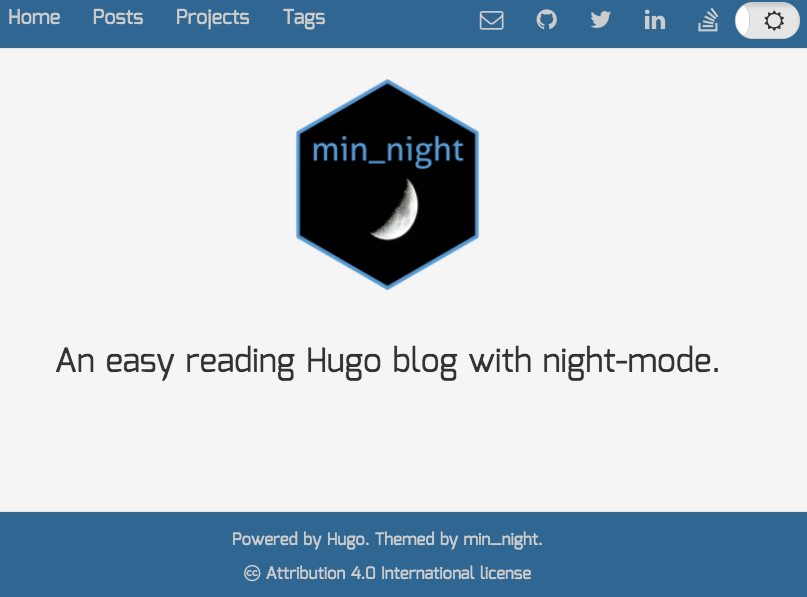
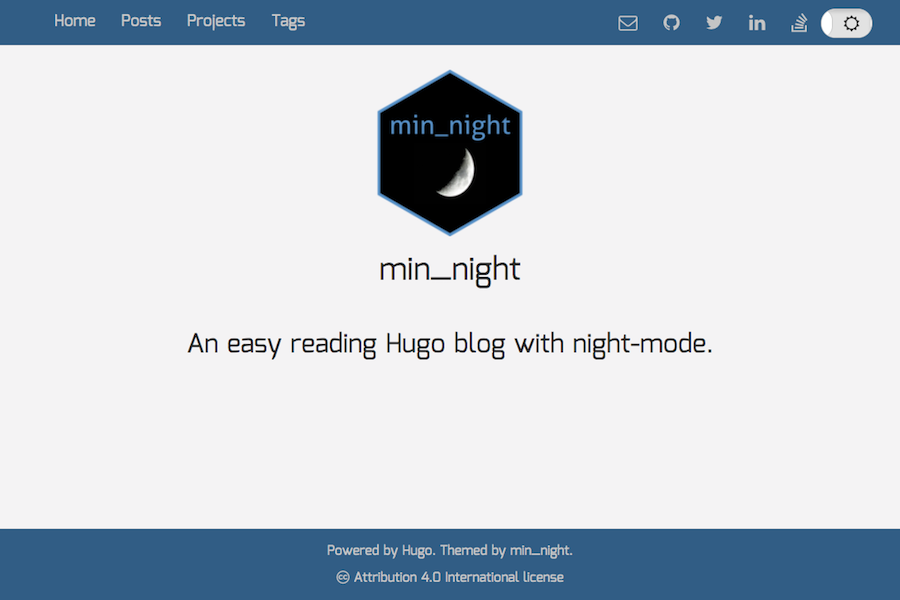
screenshots to spec for showcase

diff --git a/layouts/index.html b/layouts/index.html
@@ -6,7 +6,9 @@
 
         <div class="avatar">
             <img class="img-responsive" src="{{ .Site.BaseURL }}img/{{ .Site.Params.logo }}" alt="Whoopsies, this is my bad side!" style = "margin: 0 auto;">
+            <h1>{{ .Title }}</h1>
         </div>
+        
         
         <div style = "margin-top: 50px">
             <h2>{{ .Site.Params.description }}</h2>
